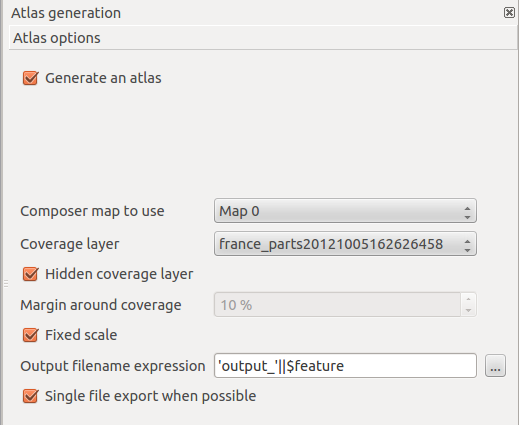
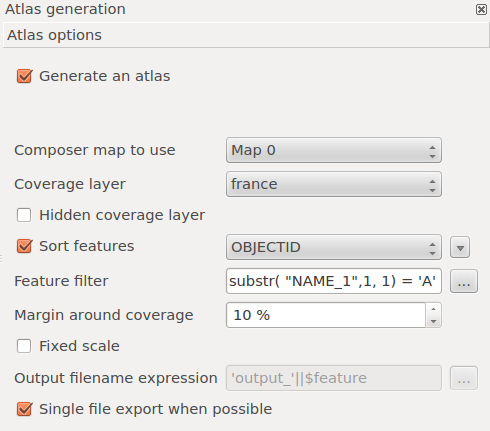
[Atlas generation] Add a few lines about feature sorting and filtering

Changed region(s): [[0.0, 0.0, 1.0, 1.0]]

diff --git a/source/docs/user_manual/print_composer/print_composer.rst b/source/docs/user_manual/print_composer/print_composer.rst
@@ -569,7 +569,7 @@ Atlas generation
 ================
 
 The print composer includes generation functions that allow to create map
-books in an automated way. The concept is to use coverage layer, which contains 
+books in an automated way. The concept is to use a coverage layer, which contains 
 geometries and fields. For each geometry in the coverage layer, a new output 
 will be generated where the content of some canvas maps will be moved to 
 highlight the current geometry. Fields associated to this geometry can be used 
@@ -598,6 +598,13 @@ only:: html
   geometries on which to iterate over.
 * An optional :guilabel:`Hidden coverage layer` |checkbox|, that if checked, will hide the
   coverage layer (but not the other ones) during the generation.
+* An optional :guilabel:`Sort features` |checkbox| that, if checked, allows to sort features of the
+  coverage layer. The associated combobox allows to choose which column will be used as the sorting key.
+  Sort order (either ascending or descending) is set by a two-state button that displays an up or
+  a down arrow.
+* An optional :guilabel:`Feature filter` text area that allows to specify an expression for filtering
+  features from the coverage layer. If the expression is not empty, only features that evaluate to true
+  will be selected. The button on the right allows to display the expression builder.
 * An input box :guilabel:`Margin around coverage` that allows to select the amount of
   space added around each geometry within the allocated map. Its value
   is meaningful only when using the autoscaling mode.
